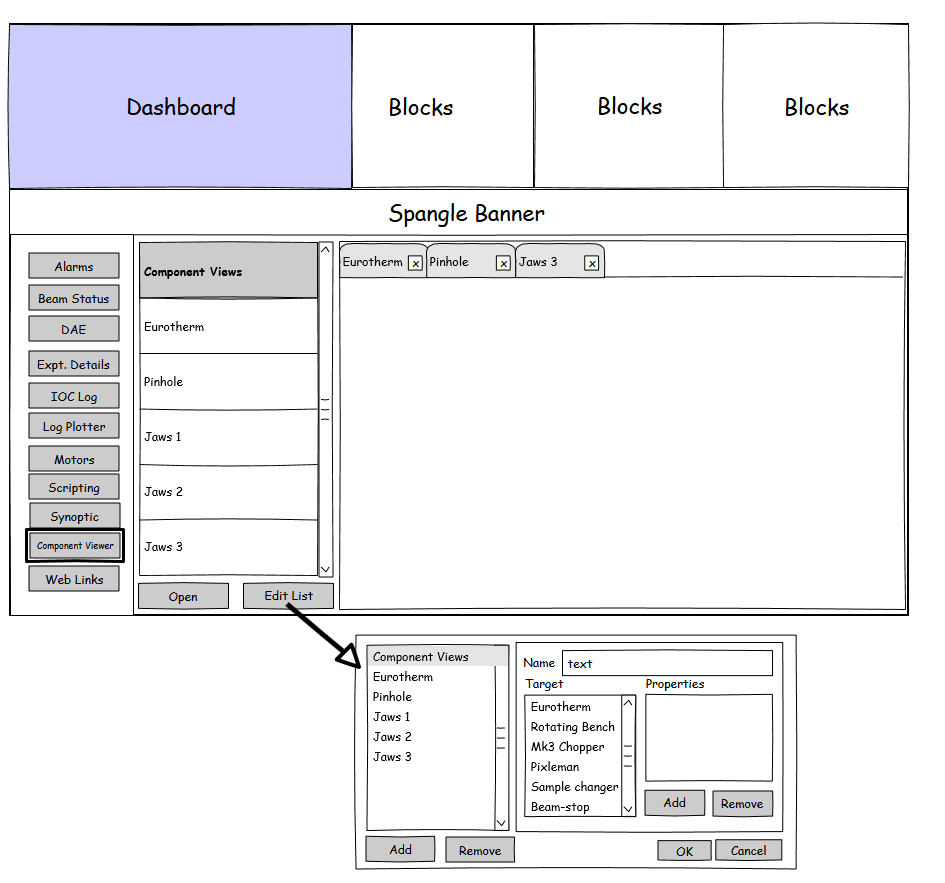
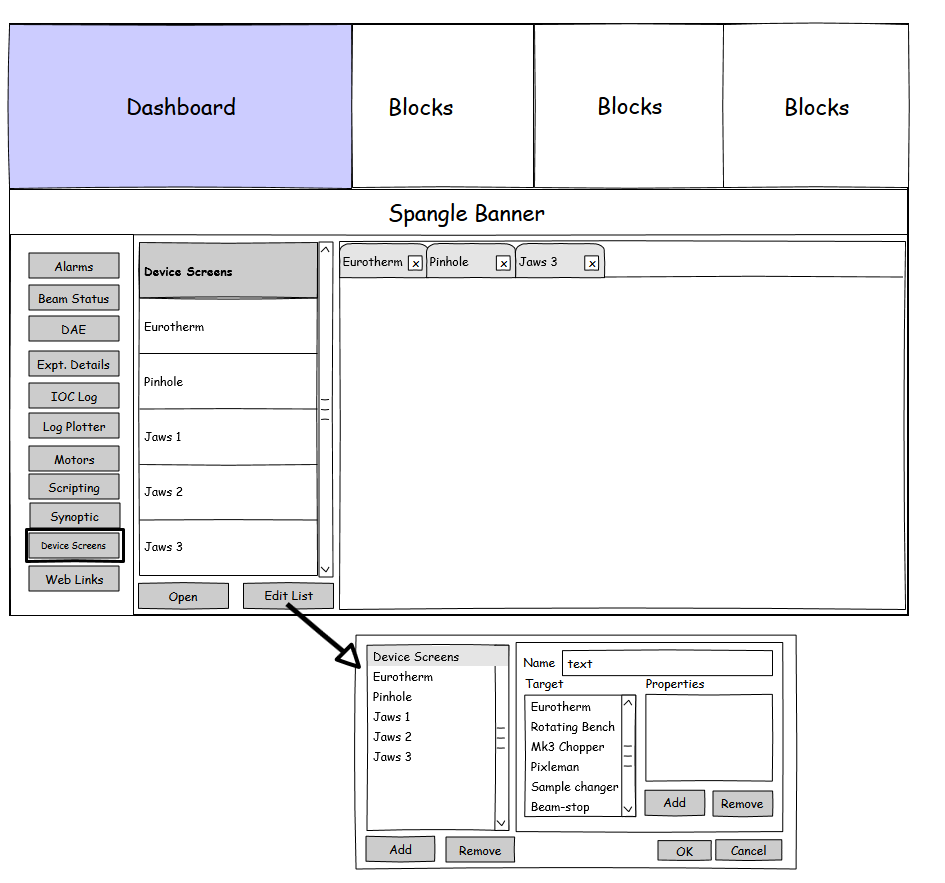
Opening an OPI updates

diff --git a/design_documents/Opening-an-OPI-Outside-of-a-Synoptic.md b/design_documents/Opening-an-OPI-Outside-of-a-Synoptic.md
@@ -2,7 +2,9 @@
 
 ## Names
 
-We need to settle on a good name for this. Current ideas are:
+The suggested name for this is 'Device Screens'. We will change the terminolgy currently used in the synoptic from 'Component' to 'Device' too, for consistency (this avoids ambiguity with a component as part of a configuration).
+
+The name is still open to debate, other ideas were:
 * Component Viewer
 * Components
 * Devices
@@ -24,7 +26,7 @@ Note that the 'Edit List' dialogue will look different with the changes for auto
 
 ## BlockServer Storage
 
-The BlockServer will be responsible for saving a list of 'Component Views'. It is proposed that each of these are stored as a separate XML file in the folder: `NDXXXXX/configurations/component_views`.
+The BlockServer will be responsible for saving a list of 'Device Screens'. It is proposed that each of these are stored as a separate XML file in the folder: `NDXXXXX/configurations/device_screens`.
 
 The component targets are currently stored in the synoptics, for example as:
 ```xml
@@ -44,7 +46,7 @@ The component targets are currently stored in the synoptics, for example as:
 </target>
 ```
 
-We should be able to re-use this structure directly. A schema for the component views will be required, which can just be a subset of what is currently in the synoptics:
+We should be able to re-use this structure directly. A schema for the device screens will be required, which can just be a subset of what is currently in the synoptics:
 
 ```xml
 <complexType name="target">
@@ -81,9 +83,9 @@ We should be able to re-use this structure directly. A schema for the component 
 
 ```
 
-The component views will be served up in the same way as the synoptics, JSON over Channel Access. Note the way PVs are named needs to take [#1053](https://github.com/ISISComputingGroup/IBEX/issues/1053)
+The device screens will be served up in the same way as the synoptics, JSON over Channel Access. Note the way PVs are named needs to take [#1053](https://github.com/ISISComputingGroup/IBEX/issues/1053)
 into account.
 
 ## Synoptic changes
 
-Changes should be made once this is complete to use the component targets within the synoptics. This should not be done until the component views editor and BlockServer changes are completed and well tested. When implementing the changes this should be taken into account though, to make sure synoptics can easily make use of a component target.
+Changes should be made once this is complete to use the device screens within the synoptics. This should not be done until the device screens editor and BlockServer changes are completed and well tested. When implementing the changes this should be taken into account though, to make sure synoptics can easily make use of a device screen.
